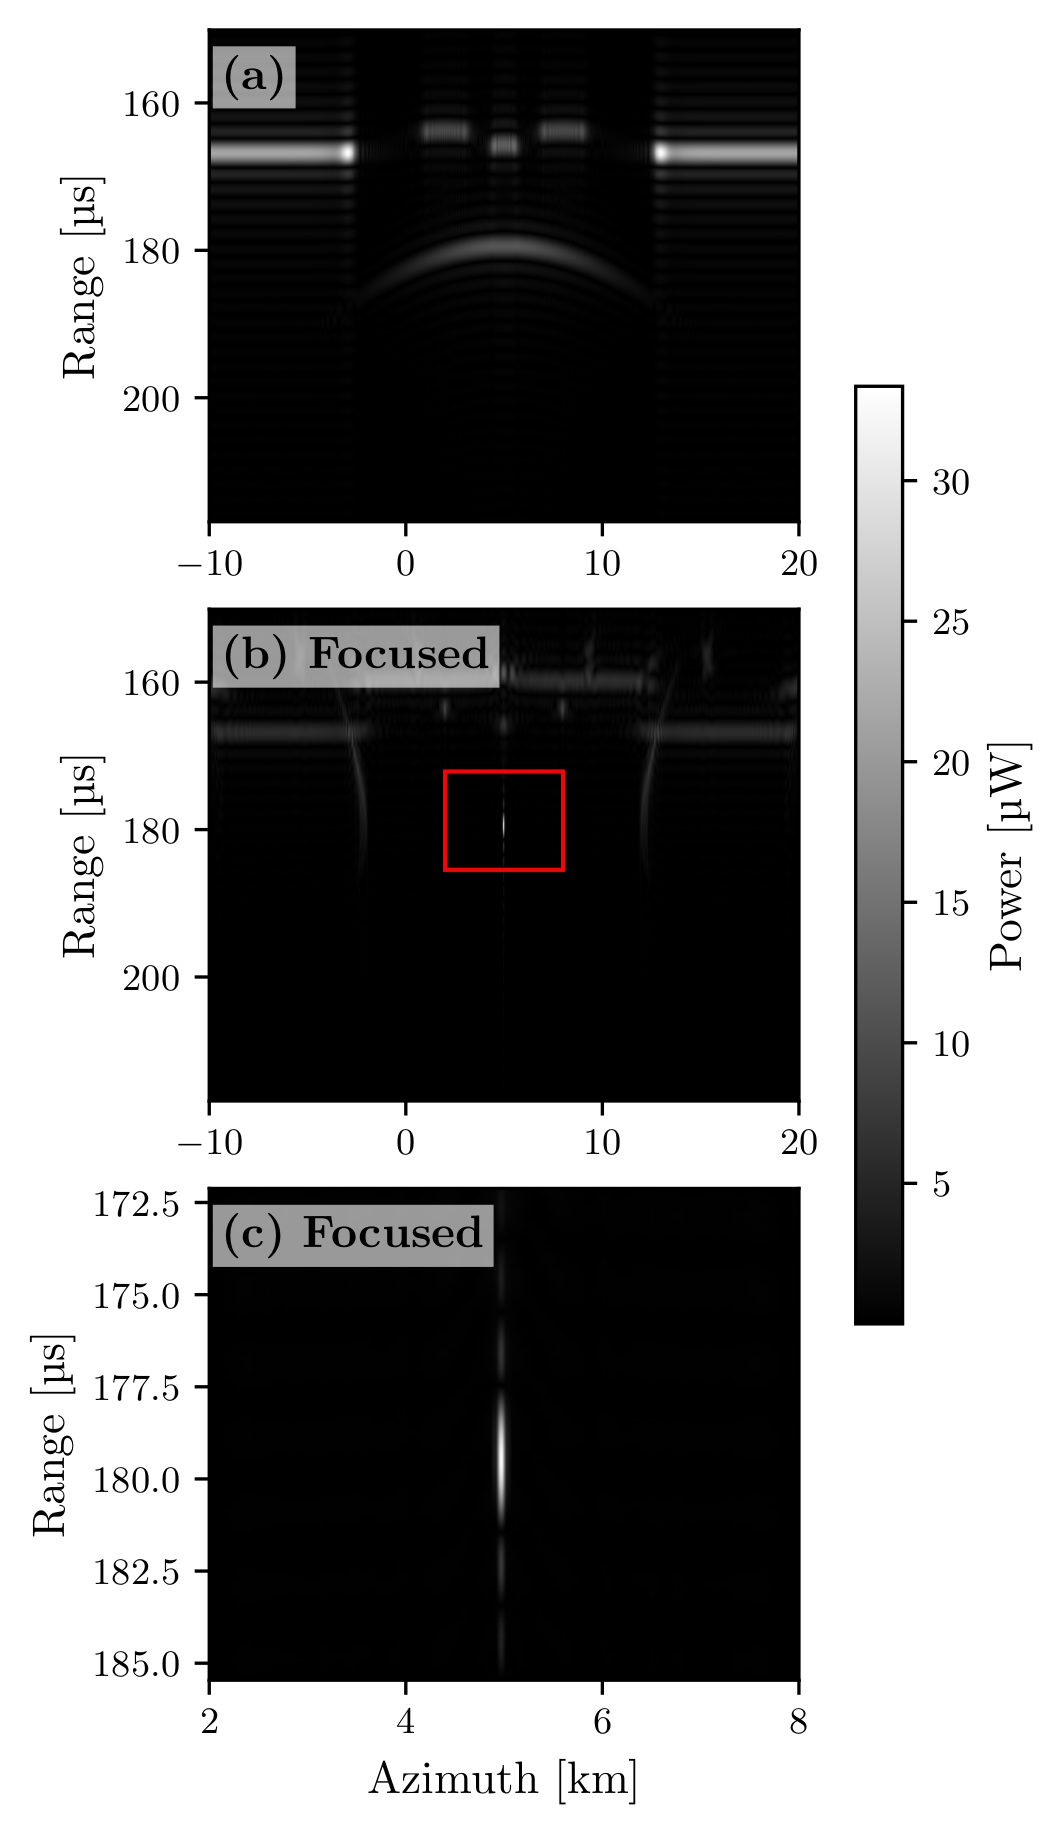
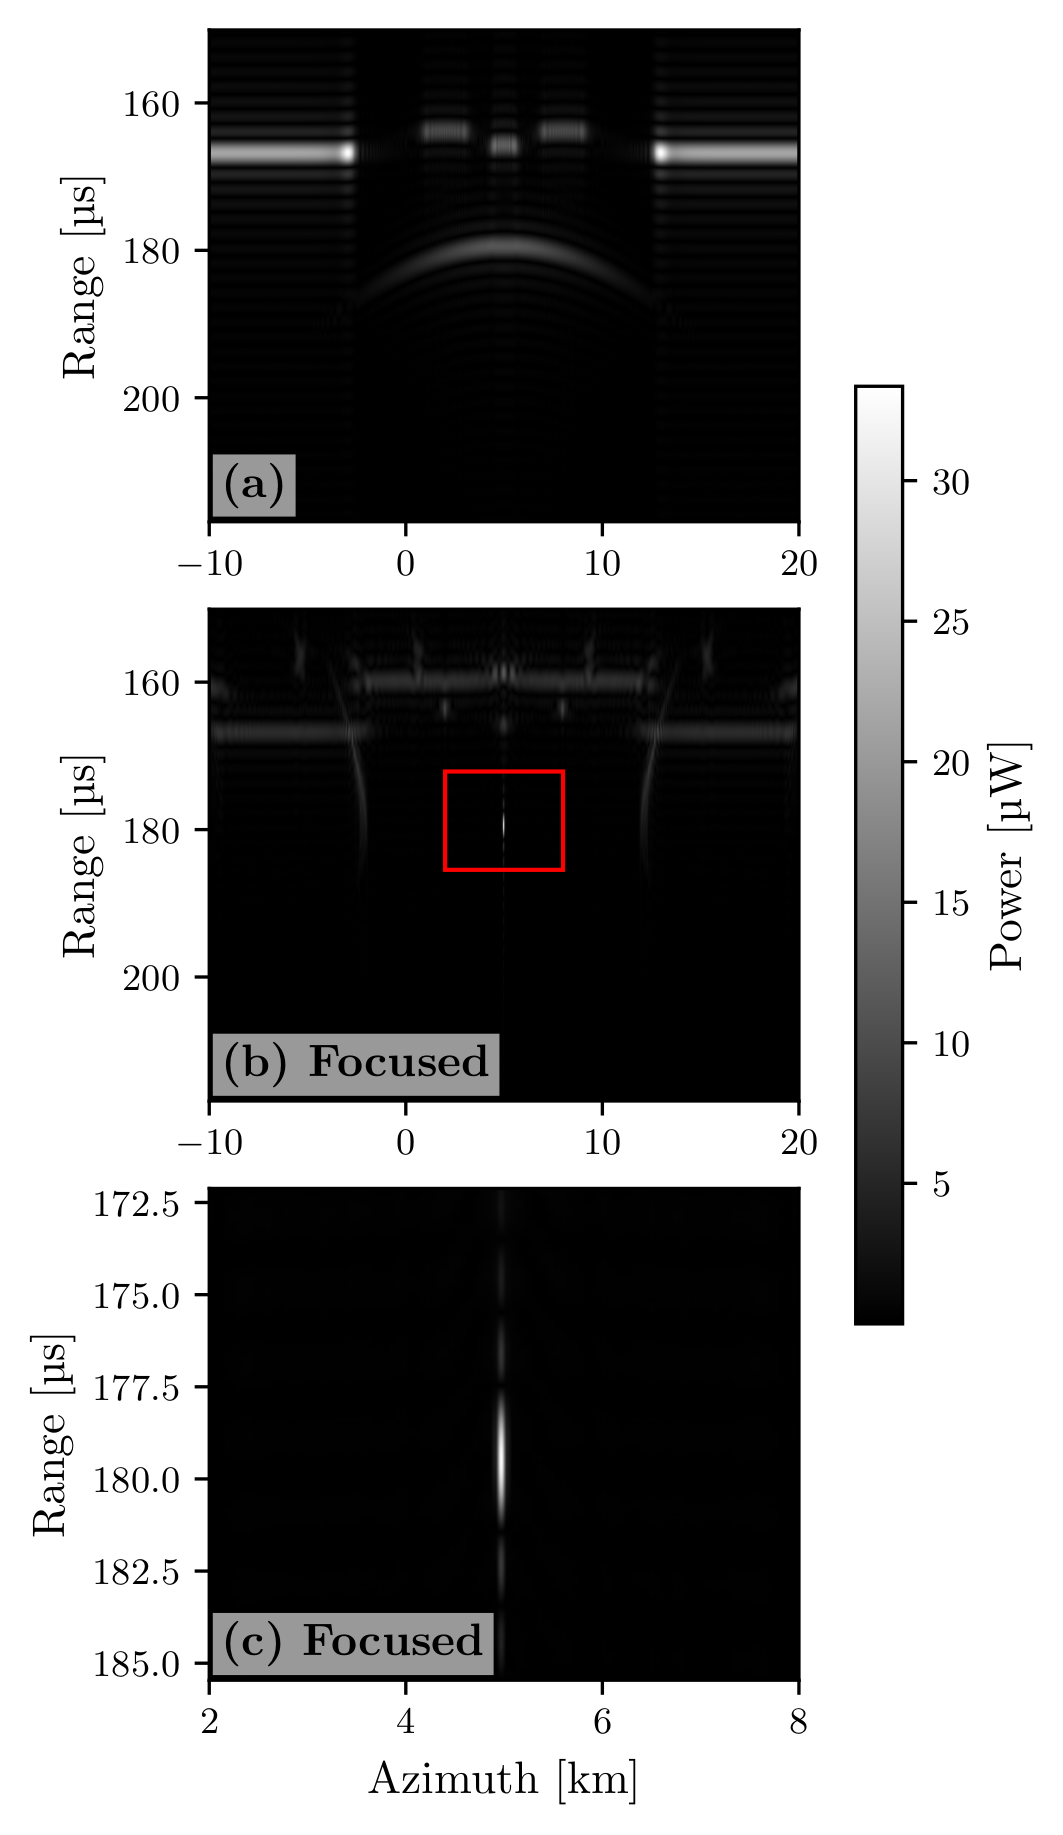
Implemented attenuation field and aperture

diff --git a/src/simulator.py b/src/simulator.py
@@ -140,7 +140,7 @@ def run_sim_ms(surf, sources, target, reflect=True, progress=True, doppler=False
         return rdrgrm, model.ts
     
 
-def run_sim_terrain(terrain, dims, sources, target, reflect=True, progress=True, doppler=False, 
+def run_sim_terrain(terrain, dims, sources, target, atten=None, reflect=True, progress=True, doppler=False, 
                      phase=False, polarization=None, rough=True, pt_response=None,
                      sltrng=False, plot=True, xmin=-10, xmax=20, refl_center=False,
                      gpu=True, savefig=None, par={}, show=False, refl_dist=False, nsmpl=1601):
@@ -173,7 +173,7 @@ def run_sim_terrain(terrain, dims, sources, target, reflect=True, progress=True,
 
     if refl_dist:
         refl_dists = []
-
+    
     for j, s in enumerate(sources):
 
         surf_refl = terrain.get_surf(s.coord[:2], dims)
@@ -187,7 +187,7 @@ def run_sim_terrain(terrain, dims, sources, target, reflect=True, progress=True,
 
             print(f"Simulating: {j+1}/{len(sources)} ({round(100*((j+1)/len(sources)), 1)}%) | ETA: {eta_str}", end="     \r")
 
-        model = Model(surf_refr, s, reflect=reflect, vec=True, polarization=polarization, 
+        model = Model(surf_refr, s, atten=atten, reflect=reflect, vec=True, polarization=polarization, 
                       rough=rough, pt_response=pt_response, par=par, refl_surface=surf_refl)
         model.set_target(target)
 
@@ -264,7 +264,7 @@ def run_sim_terrain(terrain, dims, sources, target, reflect=True, progress=True,
 
 class Model():
 
-    def __init__(self, surface, source, power=11.75, reflect=True, eps2=3.15, sig2=1e-6, 
+    def __init__(self, surface, source, atten=None, power=11.75, reflect=True, eps2=3.15, sig2=1e-6, 
                        vec=False, polarization=None, rough=True, pt_response=None, par={},
                        refl_surface=None):
         
@@ -304,7 +304,10 @@ class Model():
         
         # material conductivity
         self.sig1 = 0
-        self.sig2 = sig2
+        if type(atten) != type(None):
+            self.sig2 = atten
+        else:
+            self.sig2 = sig2
         
         # --- VELOCITIES ---
         
@@ -342,8 +345,8 @@ class Model():
         
         # calc for below surface
         eps_pp = self.sig2 / (2 * np.pi * source.f0 * self.eps0)
-        alpha2 = sqrt(1 + (eps_pp/self.eps2)**2) - 1
-        alpha2 = sqrt(0.5 * self.eps2 * alpha2)
+        alpha2 = np.sqrt(1 + (eps_pp/self.eps2)**2) - 1
+        alpha2 = np.sqrt(0.5 * self.eps2 * alpha2)
         self.alpha2 = (alpha2 * 2 * np.pi) / source.lam
 
         # --- FACTOR APPLIED TO WAVENUMBER ---
@@ -405,6 +408,8 @@ class Model():
         # --- POINT TARGET RESPONSE ---
         
         self.pt_response = pt_response
+
+        self.par = par
         
         
     # set target location
@@ -665,6 +670,10 @@ class Model():
             tr = np.ones_like(self.surface.zs) * self.tau * self.tau_rev
             re = 1 - tr
 
+        # implement aperture
+        if 'aperture' in self.par.keys():
+            tr *= np.sqrt(rp_s2f_C[0, :, :]**2 + rp_s2f_C[1, :, :]) < np.sin(np.radians(self.par['aperture'])) * self.source.z
+
         # manipulate coefficients if surface roughness enabled
         if self.rough == True:
             psi_1 = self.ks * np.cos(theta_1)
@@ -719,9 +728,10 @@ class Model():
                                            self.surface.fs, rp_s2f_S[0, :, :]))
         # implement radar equation
         tr *= radar_eq(self.power, self.gain, 1, self.lam, rp_s2f_S[0, :, :] + rp_f2t_S[0, :, :]) * (self.surface.fs ** 2) * 2
-        # phase change
+        # attenuation losses
         tr *= np.exp(-1 * self.alpha1 * 2 * rp_s2f_S[0, :, :])
         tr *= np.exp(-1 * self.alpha2 * 2 * rp_f2t_S[0, :, :])
+        
         # vars to save for time series or computation
         self.tr = tr
         self.comp_val = np.copy(tr)
@@ -850,6 +860,14 @@ class Model():
         if self.polarization is None:
             tr = cp.ones_like(cp.asarray(self.surface.zs)) * self.tau * self.tau_rev
 
+        # this is the case that applies if there is no real computation of reflection coefficient later
+        # if we were to implement this later there would be issues
+        re = 1 - tr
+
+        # implement aperture
+        if 'aperture' in self.par.keys():
+            tr *= cp.sqrt(rp_s2f_C[0, :, :]**2 + rp_s2f_C[1, :, :]) < np.sin(np.radians(self.par['aperture'])) * self.source.z
+
         # surface roughness
         if self.rough:
             psi_2 = self.ks * cp.cos(theta_2)
@@ -869,7 +887,6 @@ class Model():
             npmax = np.unravel_index(tr.argmax(), tr.shape)
             phi_deg = facet_incident[2, :, :][npmax] * (180 / np.pi)
             phi_deg = (phi_deg + 180) % 360 - 180
-            #print(f"phi4trmax: {phi_deg}")
             
             tr *= target_function_boxcar(facet_incident[2, :, :], 0, phi0=180)
 
@@ -898,7 +915,27 @@ class Model():
 
         # attenuation
         tr *= cp.exp(-1 * self.alpha1 * 2 * rp_s2f_S[0, :, :])
-        tr *= cp.exp(-1 * self.alpha2 * 2 * rp_f2t_S[0, :, :])
+
+        if type(self.alpha2) == np.ndarray: 
+            # discretization of attenuation space [m]
+            atten_fs = 50 
+            # find the maximum amount of samples required based on the longest raypath
+            # this is necessary to keep things properly paralllized
+            counts = int(np.max(rp_f2t_S[0, :, :]) // atten_fs)
+            # get the raypaths as spatial index series in x, y, and z
+            xmin, ymin, zmin = floor(-11e3//atten_fs)*atten_fs, floor(-3.9e3//atten_fs)*atten_fs, floor(-1e3//atten_fs)*atten_fs
+            rp_f2t_ixs = ((cp.asarray(self.surface.X) + rp_f2t_C[0, :, :]*cp.linspace(0, 1, counts)[:, None, None] - xmin) // atten_fs).astype(int)
+            rp_f2t_iys = ((cp.asarray(self.surface.Y) + rp_f2t_C[1, :, :]*cp.linspace(0, 1, counts)[:, None, None] - ymin) // atten_fs).astype(int)
+            rp_f2t_izs = ((cp.asarray(self.surface.zs) + rp_f2t_C[2, :, :]*cp.linspace(0, 1, counts)[:, None, None] - zmin) // atten_fs).astype(int)
+            # get discretization of each raypath
+            rp_f2t_dR = rp_f2t_S[0, :, :] / counts
+            # do attenuation
+            fac = cp.exp(-1 * cp.sum(cp.asarray(self.alpha2)[rp_f2t_ixs, rp_f2t_iys, rp_f2t_izs] * rp_f2t_dR, axis=0))
+            tr *= fac
+            del rp_f2t_ixs, rp_f2t_iys, rp_f2t_izs, rp_f2t_dR, fac
+            
+        else:
+            tr *= cp.exp(-1 * self.alpha2 * 2 * rp_f2t_S[0, :, :])
 
         # save vars
         self.tr = tr
@@ -943,10 +980,6 @@ class Model():
                 elif self.polarization == "v":
                     rho_v = (self.nu2 * cp.cos(theta_2) - self.nu1 * cp.cos(theta_1)) / (self.nu2 * cp.cos(theta_2) + self.nu1 * cp.cos(theta_1))
                     re = cp.abs(rho_v)**2
-
-            else:
-
-                re = 1 - tr
 
             if self.rough:
                 psi_1 = self.ks * cp.cos(theta_1)

diff --git a/src/surface.py b/src/surface.py
@@ -202,3 +202,26 @@ dimensions of {self.X.shape}")
             plt.show()
         else:
             plt.close()
+
+    def reduce_by_aperture(self, aperture, alt):
+
+        """
+        CRITICAL: THIS ASSUMES THAT THE FACETED SURFACE IS AT NADIR WHICH IS INVALID FOR THE REFRACTED SURFACE
+        """
+
+        radius   = np.sin(np.radians(aperture)) * alt
+        n_facets = radius // self.fs 
+
+        half_x   = self.dims[0] // 2
+        half_y   = self.dims[1] // 2
+
+        self.X = self.X[int(half_x - n_facets):int(half_x + n_facets + 1),
+                        int(half_y - n_facets):int(half_y + n_facets + 1)]
+        self.Y = self.Y[int(half_x - n_facets):int(half_x + n_facets + 1),
+                        int(half_y - n_facets):int(half_y + n_facets + 1)]
+        
+        self.zs = self.zs[int(half_x - n_facets):int(half_x + n_facets + 1),
+                        int(half_y - n_facets):int(half_y + n_facets + 1)]
+
+        self.normals = self.normals[int(half_x - n_facets):int(half_x + n_facets + 1),
+                        int(half_y - n_facets):int(half_y + n_facets + 1)]

diff --git a/src/util.py b/src/util.py
@@ -3,7 +3,7 @@ import numpy as np
 import numba as nb # type: ignore
 import warnings, functools
 
-from math import ceil
+from math import ceil, floor
 
 nGPU = int(os.getenv("nGPU"))
 
@@ -237,3 +237,14 @@ def repeating_slant_gaussian(xs, H, sig1, sig2, gap, xoffset=0):
     gaussians = [slant_gaussian(xs, H, sig1, sig2, (i * 2 * gap) + gap + xoffset) for i in range(count)]
 
     return np.sum(gaussians, axis=0)
+
+
+def split_attenuation_field_x(xmin, xmax, ymin, ymax, zmin, zmax, fs, split, sigA=1, sigB=1e-6):
+
+    xs = np.arange(floor(xmin//fs)*fs, xmax+fs, fs)
+    ys = np.arange(floor(xmin//fs)*fs, ymax+fs, fs)
+    zs = np.arange(floor(xmin//fs)*fs, zmax+fs, fs)
+
+    YY, XX, ZZ = np.meshgrid(xs, ys, zs)
+
+    return sigA * (XX < split) + sigB * (XX > split)
